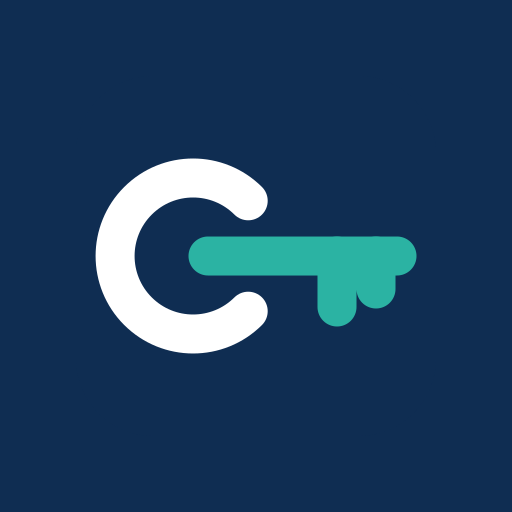
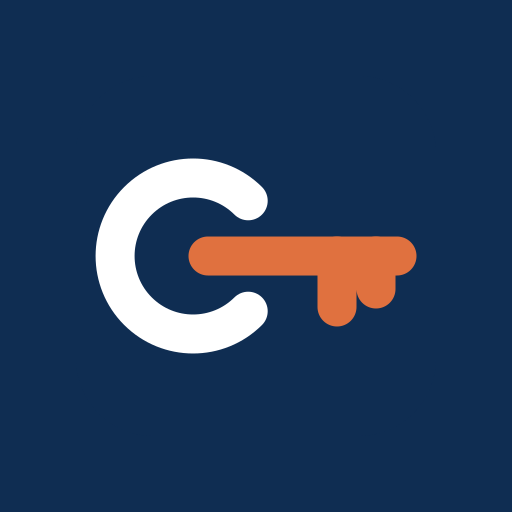
Akzentfarbe: warmes Terrakotta statt Türkis (passend zu Creme und Marineblau)
Claude-Session: https://claude.ai/code/session_01Vqutq4dbHyWjrmMWRTATTB

Changed region(s): [[0.3438, 0.4375, 0.8125, 0.6562]]

diff --git a/assets/css/style.css b/assets/css/style.css
@@ -39,11 +39,11 @@
   --ink:           #0b1f3a;
   --ink-muted:     #44566e;
   --ink-subtle:    #56637a;
-  --accent:        #2bb3a3;
-  --accent-hover:  #229c8e;
+  --accent:        #e0713f;
+  --accent-hover:  #c95f2f;
   --accent-ink:    #0b1f3a;
-  --accent-text:   #0b6b61;
-  --accent-wash:   rgba(43, 179, 163, 0.14);
+  --accent-text:   #a2400f;
+  --accent-wash:   rgba(224, 113, 63, 0.14);
   --line:          #e4ddd0;
   --line-strong:   #cdc6b6;
   --shadow-sm:     0 1px 2px rgba(11, 31, 58, 0.06);
@@ -51,7 +51,7 @@
   --overlay:       rgba(251, 250, 247, 0.9);
   --img-tint:      rgba(11, 31, 58, 0.05);
   --card-shadow:   0 1px 2px rgba(11, 31, 58, 0.06), 0 6px 16px -10px rgba(11, 31, 58, 0.18);
-  --accent-icon:   #178a7c;   
+  --accent-icon:   #c25a2b;   
 
   --font-brand: 'Space Grotesk', 'Segoe UI', system-ui, sans-serif;
   --font-sans:  'Inter', -apple-system, BlinkMacSystemFont, 'Segoe UI Variable Text',
@@ -103,11 +103,11 @@
     --ink:          #eaf0f8;
     --ink-muted:    #c6d3e6;
     --ink-subtle:   #a3b3cc;
-    --accent:       #2bb3a3;
-    --accent-hover: #5cd0c1;
+    --accent:       #e0713f;
+    --accent-hover: #f08a5d;
     --accent-ink:   #0b1f3a;
-    --accent-text:  #6fd9cb;
-    --accent-wash:  rgba(43, 179, 163, 0.16);
+    --accent-text:  #f5a47c;
+    --accent-wash:  rgba(224, 113, 63, 0.16);
     --line:         #1c2b45;
     --line-strong:  #34486a;
     --shadow-sm:    0 1px 2px rgba(0, 0, 0, 0.45);
@@ -127,11 +127,11 @@
   --ink:          #eaf0f8;
   --ink-muted:    #c6d3e6;
   --ink-subtle:   #a3b3cc;
-  --accent:       #2bb3a3;
-  --accent-hover: #5cd0c1;
+  --accent:       #e0713f;
+  --accent-hover: #f08a5d;
   --accent-ink:   #0b1f3a;
-  --accent-text:  #6fd9cb;
-  --accent-wash:  rgba(43, 179, 163, 0.16);
+  --accent-text:  #f5a47c;
+  --accent-wash:  rgba(224, 113, 63, 0.16);
   --line:         #1c2b45;
   --line-strong:  #34486a;
   --shadow-sm:    0 1px 2px rgba(0, 0, 0, 0.45);
@@ -1536,7 +1536,7 @@ a.card:hover,
   pointer-events: none;
 }
 .cta-band::before {
-  background: radial-gradient(55% 75% at 50% 0%, rgba(43, 179, 163, 0.18), transparent 72%);
+  background: radial-gradient(55% 75% at 50% 0%, rgba(224, 113, 63, 0.18), transparent 72%);
 }
 .cta-band::after {
   background-image: radial-gradient(rgba(234, 240, 248, 0.10) 1px, transparent 1px);
@@ -1573,8 +1573,8 @@ a.card:hover,
 }
 .header::before {
   background:
-    linear-gradient(90deg, transparent 8%, rgba(43, 179, 163, 0.9) 50%, transparent 92%) bottom / 100% 1px no-repeat,
-    radial-gradient(45% 70% at 50% 100%, rgba(43, 179, 163, 0.13), transparent 100%);
+    linear-gradient(90deg, transparent 8%, rgba(224, 113, 63, 0.9) 50%, transparent 92%) bottom / 100% 1px no-repeat,
+    radial-gradient(45% 70% at 50% 100%, rgba(224, 113, 63, 0.13), transparent 100%);
 }
 .header::after {
   background-image: radial-gradient(var(--kopf-punkt) 1px, transparent 1px);
@@ -2023,7 +2023,7 @@ a.card:hover,
 .header::before {
   inset: auto 0 0 0;
   height: 1px;
-  background: #2bb3a3;
+  background: #e0713f;
   opacity: 0.85;
 }
 @media (prefers-reduced-motion: no-preference) {
@@ -2409,7 +2409,7 @@ a.card:hover,
   .privat-hinweis { flex-direction: column; gap: var(--sp-2); }
 }
 
-.brand__name span { color: #0b6b61; }
+.brand__name span { color: #a2400f; }
 @media (prefers-color-scheme: dark) {
   :root:not([data-theme='light']) .brand__name span { color: var(--accent); }
 }
@@ -2720,7 +2720,7 @@ h3, h4 { letter-spacing: -0.015em; }
   --ink-subtle:  #8190a8;
   --line:        rgba(255, 255, 255, 0.09);
   --line-strong: rgba(255, 255, 255, 0.24);
-  --accent-text: #6fd9cb;
+  --accent-text: #f5a47c;
   position: relative;
   isolation: isolate;
   overflow: hidden;
@@ -2747,7 +2747,7 @@ h3, h4 { letter-spacing: -0.015em; }
   position: absolute;
   inset: 0;
   z-index: -1;
-  background: radial-gradient(56rem 20rem at 50% 0%, rgba(43, 179, 163, 0.11), transparent 70%);
+  background: radial-gradient(56rem 20rem at 50% 0%, rgba(224, 113, 63, 0.11), transparent 70%);
   pointer-events: none;
 }
 
@@ -2809,7 +2809,7 @@ h3, h4 { letter-spacing: -0.015em; }
   height: 7px;
   border-radius: 50%;
   background: var(--accent);
-  box-shadow: 0 0 0 4px rgba(43, 179, 163, 0.16);
+  box-shadow: 0 0 0 4px rgba(224, 113, 63, 0.16);
 }
 
 .footer__bottom { margin-top: var(--sp-6); color: var(--ink-subtle); }
@@ -2840,19 +2840,19 @@ h3, h4 { letter-spacing: -0.015em; }
 
 .footer {
   background:
-    radial-gradient(56rem 20rem at 50% 0%, rgba(43, 179, 163, 0.11), transparent 70%),
+    radial-gradient(56rem 20rem at 50% 0%, rgba(224, 113, 63, 0.11), transparent 70%),
     #0b1f3a;
 }
 @media (prefers-color-scheme: dark) {
   :root:not([data-theme='light']) .footer {
     background:
-      radial-gradient(56rem 20rem at 50% 0%, rgba(43, 179, 163, 0.1), transparent 70%),
+      radial-gradient(56rem 20rem at 50% 0%, rgba(224, 113, 63, 0.1), transparent 70%),
       #050c18;
   }
 }
 :root[data-theme='dark'] .footer {
   background:
-    radial-gradient(56rem 20rem at 50% 0%, rgba(43, 179, 163, 0.1), transparent 70%),
+    radial-gradient(56rem 20rem at 50% 0%, rgba(224, 113, 63, 0.1), transparent 70%),
     #050c18;
 }
 .footer::after {
@@ -2888,7 +2888,7 @@ h3, h4 { letter-spacing: -0.015em; }
 
 .footer__wortmarke {
   background:
-    radial-gradient(38% 90% at 50% 0%, rgba(43, 179, 163, 0.26), transparent 70%),
+    radial-gradient(38% 90% at 50% 0%, rgba(224, 113, 63, 0.26), transparent 70%),
     linear-gradient(180deg, rgba(234, 240, 248, 0.15), rgba(234, 240, 248, 0) 88%);
   -webkit-background-clip: text;
   background-clip: text;
@@ -2967,8 +2967,8 @@ body.is-locked .callbar { right: calc(0.625rem + var(--sb, 0px)); }
   box-shadow: inset 0 1px 0 var(--glas-licht);
 }
 .callbar .btn--primary {
-  background: linear-gradient(180deg, rgba(92, 208, 193, 0.96), rgba(43, 179, 163, 0.96));
-  box-shadow: inset 0 1px 0 rgba(255, 255, 255, 0.45), 0 6px 18px rgba(43, 179, 163, 0.35);
+  background: linear-gradient(180deg, rgba(240, 138, 93, 0.96), rgba(224, 113, 63, 0.96));
+  box-shadow: inset 0 1px 0 rgba(255, 255, 255, 0.45), 0 6px 18px rgba(224, 113, 63, 0.35);
 }
 
 body { padding-bottom: 0; }
